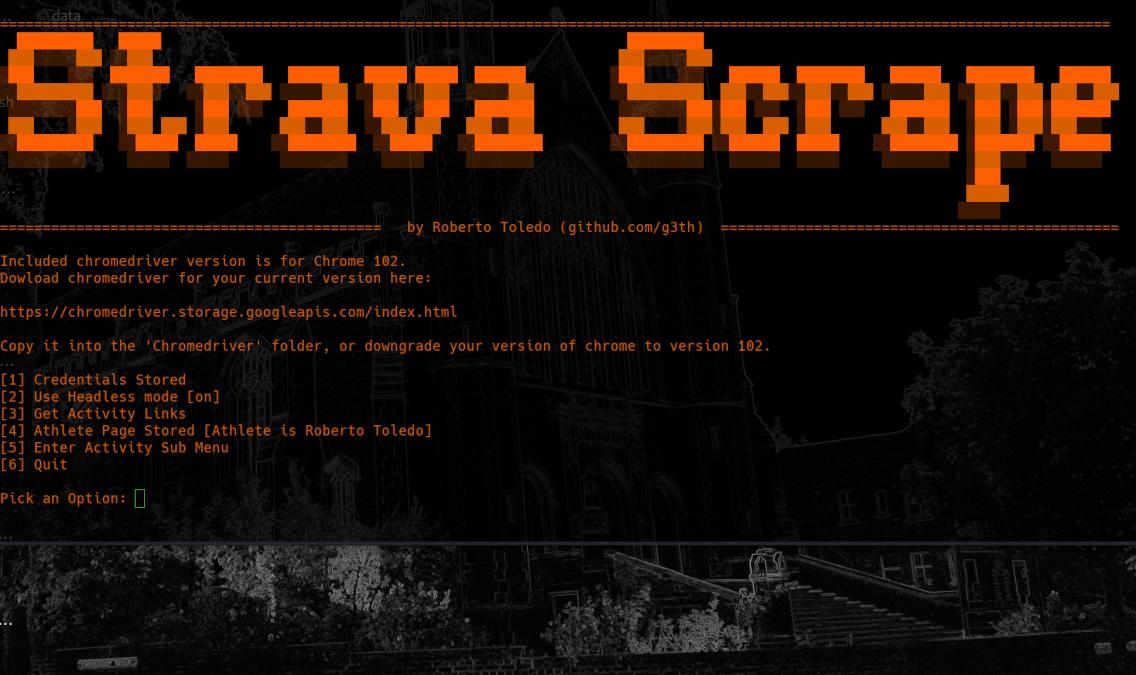
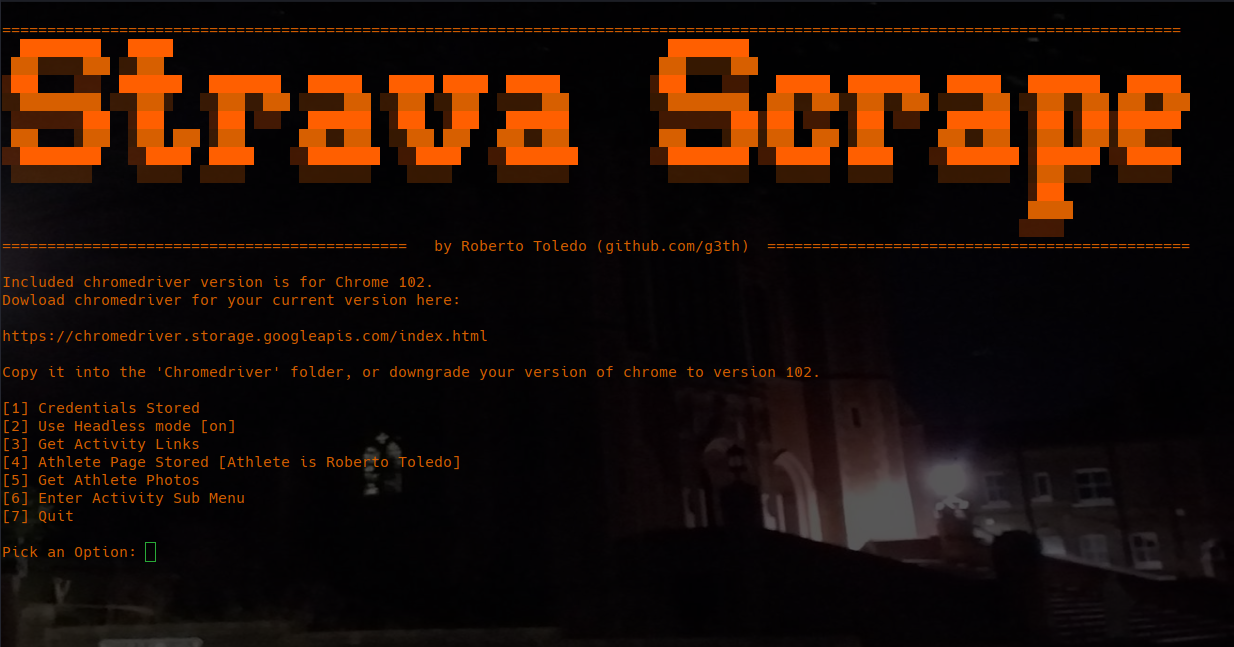
added: ability to scrape stored athlete photos taken during activities

diff --git a/gui.py b/gui.py
@@ -1,14 +1,16 @@
 import subprocess
-from scrape import BrowserOperations
 import os
+from photo_downloader import ImageDownloader
+from scrape import BrowserOperations
 
 
 class UserInterface:
     def __init__(self):
+        self.downloader = ImageDownloader()
         self.athlete_name = None
         self.colors = ['166', '202']
         self.activities_are_present = False
-        self.menu_options = ['1', '2', '3', '4', '5', '6']
+        self.menu_options = ['1', '2', '3', '4', '5', '6', '7']
         self.operations = BrowserOperations()
         self.headless_flag = 'on'
         self.logged_in = 'Store Credentials'
@@ -50,15 +52,13 @@ class UserInterface:
         self.checks()
         while True:
             self.title()
-            if [item for item in os.listdir("data") if ("activities" in item)]:
-                self.activities_are_present = True
-                self.menu_options = ['1', '2', '3', '4', '5', '6']
             print("[{}] {}".format(self.menu_options[0], self.logged_in))
             print("[{}] Use Headless mode [{}]".format(self.menu_options[1], self.headless_flag))
             print("[{}] Get Activity Links".format(self.menu_options[2]))
             print("[{}] {} ".format(self.menu_options[3], self.athlete_page))
-            print("[{}] Enter Activity Sub Menu".format(self.menu_options[4], self.athlete_page))
-            print("[{}] Quit".format(self.menu_options[5]))
+            print("[{}] Get Athlete Photos".format(self.menu_options[4]))
+            print("[{}] Enter Activity Sub Menu".format(self.menu_options[5], self.athlete_page))
+            print("[{}] Quit".format(self.menu_options[6]))
             self.opt = input("\nPick an Option: ")
             match self.opt:
                 case "1":
@@ -93,12 +93,22 @@ class UserInterface:
                     else:
                         self.option_four()
                 case "5":
+                    if not self.athlete_name:
+                        print("There is no athlete page stored.")
+                        print("Press Enter")
+                        input()
+                    else:
+                        page = open('login_data/athlete_page').readline()
+                        print("Fetching Image Links...")
+                        links = self.operations.photo_scraper(page)
+                        self.downloader.threaded_downloader(links)
+                case "6":
                     if [file for file in os.listdir("data") if ("activities" in file)]:
                         self.sub_menu()
                     else:
                         print("Scrape some activities first.")
                         input("Press Enter.")
-                case "6":
+                case "7":
                     print("Goodbye")
                     exit()
                 case _:
@@ -223,6 +233,3 @@ class UserInterface:
             page.write(user_page)
         page.close()
         self.athlete_page = "Athlete Page Stored [Athlete is {}]".format(athlete_name)
-
-    def activity_data_menu(self):
-        print("1) Heart Rate")

diff --git a/scrape.py b/scrape.py
@@ -193,7 +193,7 @@ class BrowserOperations:
         unparsed_activity_type = s.find('span', {'class': 'title'})
         # Run, Hike etc
         activity_type = str(unparsed_activity_type).replace("\n", "").replace("–", "").split("</a>")[1].split("<")[0]
-        # Time splits i.e. 1 - 6:00 /mile - 5 meters (Split Number - Minutes per mile/km - elevation)
+        # Time splits i.e. 1 - 6:00 /mile - 5 meters (Split Number - Minutes per mile/km - GAP - elevation)
         splits = s.find_all('td', {'class': 'centered'})
         # Details: Time, date and Location
         details_contents_div = s.find('div', {'class': 'details'})
@@ -237,3 +237,22 @@ class BrowserOperations:
             for i in store_splits:
                 splits_file.write(i + "\n")
         splits_file.close()
+
+    def photo_scraper(self, page):
+        self.browser = webdriver.Chrome(service=self.browser_service, options = self.browser_options)
+        self.browser.get(page)
+        time.sleep(0.8)
+        self.load_cookies(False, False)
+        time.sleep(3)
+        source = self.browser.page_source
+        s = soup(source, 'html.parser')
+        find = s.find('div', {'data-react-class':'MediaThumbnailList'})
+        a = str(find).replace('&quot;','"').replace("\\u0026","&").split('"large":')
+        links = []
+        for i in range(len(a)):
+            if i % 2 == 0 or i == [0]:
+                pass
+            else:
+                links.append(a[i].split(',')[0].split("{")[0].replace('"',''))
+        self.browser.close()
+        return links

diff --git a/photo_downloader.py b/photo_downloader.py
@@ -1,0 +1,27 @@
+import requests
+import time
+import concurrent.futures
+import os
+from pathlib import Path
+
+
+class ImageDownloader:
+    def __init__(self):
+        self.directory = str(Path(__file__).parent)
+
+    def req(self, links, index):
+        r = requests.get(links[index]).content
+        with open("Photos/image_{}.jpg".format(index), 'wb') as write_image:
+            write_image.write(r)
+
+    def threaded_downloader(self, links):
+        os.makedirs("Photos", exist_ok=True)
+        start = time.perf_counter()
+        with concurrent.futures.ThreadPoolExecutor() as executor:
+            for index in range(len(links)):
+                print("Fetching link: {}".format(links[index]))
+                executor.submit(self.req, links, index)
+        end = time.perf_counter()
+        total = end - start
+        print("Fetched {} links in {:.2f}".format(len(links), total))
+        input("Press Enter to return.")
